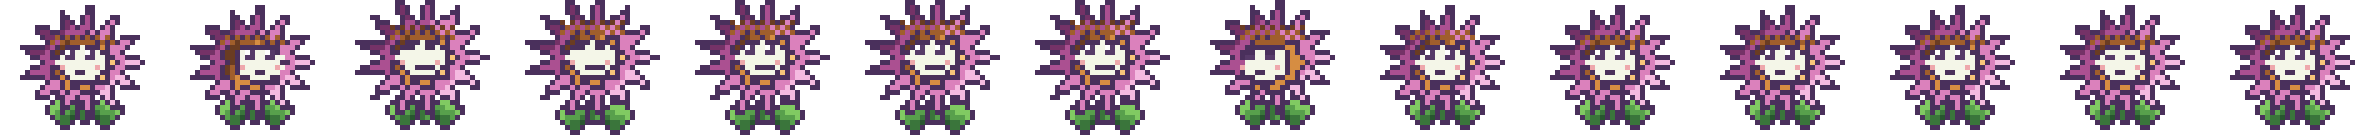
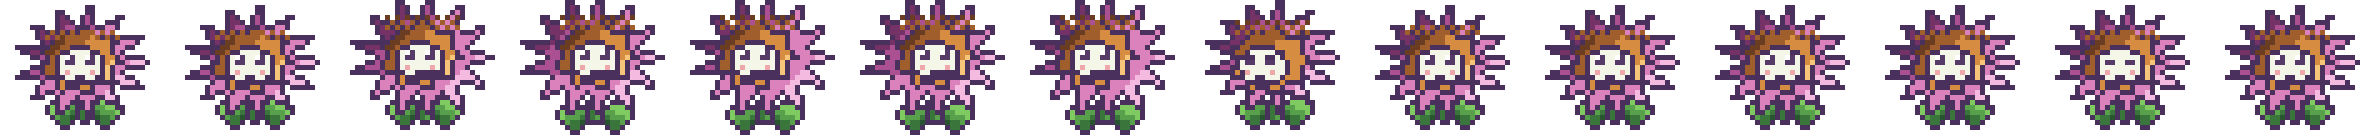
Give the coneflower its cone, its bud and its tingle
Three changes to #48, all of them things the automated gates could not see.

THE CONE NOW READS. It was a 15px head carrying a 10.6px face, which left about
1px of orange around the cream — a headband, and next to taraxacum-officinale.png
the sheet was a purple dandelion. The cone is the entire identity of the species.
Growing it to 18x15 made the rim even and introduced a worse failure: a uniform
band of one colour family around a cream oval is what a picture frame is. `face_dy`
is the fix — the face sits 1.1px below the cone's centre, so four rows of cone
stand above it and one below, and it reads as a dome rising over the face. Which
is the plant: a disc standing proud is what separates a coneflower from a daisy.
The mane widens 27 -> 29 so the rays keep their length against the bigger cone.

STAGE 2 BUDS. `BUD_MANE` is the same ring generator at a short radius, so the bud
grows into exactly the adult's ray count and spacing rather than being drawn twice.
It shows a closed green cone with the spines already flat on it and the first purple
breaking at the crown — E. purpurea rays emerge upright from the top of a developing
head and only reflex later, so that is a real phase and not a shrunken adult.

THE GESTURE IS THE TINGLE, and it comes off the card's own back rather than out of
my head: TASTE: Bitter, Pungent, TINGLING, against AROMATIC: Earthy, Herbal, MILD.
A quiet, unremarkable-smelling thing that turns out to be electric. The spines snap
[…]

Changed region(s): [[0.0, 0.0571, 0.995, 0.8]]

diff --git a/scripts/sprite_sources/echinacea_purpurea.py b/scripts/sprite_sources/echinacea_purpurea.py
@@ -19,11 +19,27 @@ layered over, never a substitute for it.
 The rays are also drawn SWEPT: on a mature E. purpurea the ray florets reflex backward and
 hang, which is why the cone stands so proud, and it is the thing most drawings get wrong.
 
-WHERE THE FACE GOES: in the cone, which is the part the character lives in.
+WHERE THE FACE GOES: in the cone, which is the part the character lives in - and LOW in it,
+which took three passes to get right. A cone the same size as the face leaves a 1px orange rim
+that reads as a headband, and the sheet next to the dandelion's was a purple dandelion. Growing
+the cone until the rim was even all round fixed that and introduced a worse thing: a uniform
+band around a cream oval reads as a PICTURE FRAME, because two colour families stacked
+concentrically is what a frame is. `face_dy` is the answer - the face sits 1.1px below the
+cone's centre, so there are four rows of cone above it and one below, and the organ reads as a
+dome RISING over the face rather than a ring around it. Which is also the plant: the thing that
+separates a coneflower from a daisy is a disc that stands proud.
 
-PERSONALITY: prickly. Its trademark gesture is THE BRISTLE - the spines stand up around the
-cone, hold for a beat, and flatten again, while the rays lift with the startle and settle. A
-hedgehog's entire vocabulary, in a flower.
+PERSONALITY: tingly. Its trademark gesture is THE TINGLE, and it comes off the card rather than
+out of my head - the back prints TASTE: Bitter, Pungent, TINGLING against AROMATIC: Earthy,
+Herbal, MILD. A quiet, unremarkable-smelling thing that turns out to be electric. The spines
+snap up on one frame and then the creature buzzes, shivering a pixel either way while the
+bristles hold. `Echinacea` is Greek `echinos`, HEDGEHOG, and the bristles are why; the jitter is
+what makes them a tingle rather than a startle.
+
+DELIBERATELY NOT THE HEALING TRAITS. The same back prints anti-inflammatory, immune aid and
+respiratory support, and none of them appears here in any form. A gesture may illustrate what a
+plant tastes and smells like; it may never illustrate a medicinal effect - the line self-heal
+already keeps by mending a notch in its OWN leaf.
 
 COLOUR: rays at ~320 deg, leaves at ~105 deg - far outside the 34 deg either side of its own
 flower that the set forbids - with the cone at ~30 deg between them. Midtones stay under the
@@ -59,11 +75,11 @@ PALETTE = {
 # rays and each is thinner, and that count is most of what separates the two silhouettes at
 # thumbnail size. `face_rx = 0` draws no face — this organ is behind the cone and must stay a
 # clean ring.
-MANE_W, MANE_H = 27, 23
-MANE_CX, MANE_CY = 13.0, 11.0
+MANE_W, MANE_H = 29, 23
+MANE_CX, MANE_CY = 14.0, 11.0
 
 
-def _mane(rx=10.5, ry=9.5, light=(-0.85, -0.65)):
+def _mane(rx=11.4, ry=9.5, light=(-0.85, -0.65)):
     return flower_head(
         MANE_W, MANE_H, MANE_CX, MANE_CY, rx, ry, 13, 0.22, 0, 0,
         light=light, trim_tail=False, chars="RrqQFo",
@@ -73,22 +89,29 @@ def _mane(rx=10.5, ry=9.5, light=(-0.85, -0.65)):
 MANE = _mane()
 # The startle: the whole ring lifts and widens a little. Reflexed rays cannot fall further,
 # so the only direction they have is up.
-MANE_LIFT = _mane(rx=11.0, ry=10.2)
+MANE_LIFT = _mane(rx=11.9, ry=10.2)
 
-MANE_AT = (2, 1)
+MANE_AT = (1, 1)
+
+# BUDDING: the same ring at a short radius. A coneflower does not open all at once — the
+# green bud cracks and the rays push out as stubs, still short and still half-held by the
+# bracts, before they lengthen and reflex. Generated from the same call rather than drawn
+# again, so the adult's ray count and spacing are exactly what the bud grows into.
+BUD_MANE = _mane(rx=6.4, ry=5.6)
+BUD_MANE_AT = (2, 7)
 
 # --- The cone ---------------------------------------------------------------
 #
 # Nine shallow lobes so the rim is bumpy rather than smooth — a cone is packed bracts, and a
 # clean ellipse here reads as a berry. The amplitude stays low because the SPINES do the
 # spiky work; a permanently jagged rim would leave the gesture nothing to add.
-CONE_W, CONE_H = 15, 14
+CONE_W, CONE_H = 18, 15
 
 
 def _cone(face_dx=0.0, light=(-0.85, -0.65)):
     return flower_head(
-        CONE_W, CONE_H, 7.0, 6.2, 6.6, 6.0, 9, 0.10, 5.3, 4.2,
-        face_dx=face_dx, light=light, trim_tail=False, chars="NmbBFo",
+        CONE_W, CONE_H, 8.5, 6.7, 7.8, 6.6, 9, 0.10, 5.3, 4.2,
+        face_dx=face_dx, face_dy=1.1, light=light, trim_tail=False, chars="NmbBFo",
     )
 
 
@@ -96,7 +119,7 @@ CONE = _cone()
 CONE_LEFT = _cone(face_dx=-1.3, light=(-0.35, -0.65))
 CONE_RIGHT = _cone(face_dx=1.3, light=(-1.25, -0.65))
 
-CONE_AT = (8, 6)
+CONE_AT = (6, 5)
 
 L_DX, _ = face_shift(CONE, CONE_LEFT)
 R_DX, _ = face_shift(CONE, CONE_RIGHT)
@@ -106,17 +129,17 @@ R_DX, _ = face_shift(CONE, CONE_RIGHT)
 # Their own part, because the gesture is them moving against the cone. Flat at rest: a
 # coneflower is prickly to touch and does not look it, which is the joke the bristle tells.
 SPINES_FLAT = [
-    " b b b b b b ",
-    "b b b b b b b",
+    " b b b b b b b ",
+    "b b b b b b b b",
 ]
 
 SPINES_UP = [
-    "B B B B B B B",
-    " b b b b b b ",
-    "b b b b b b b",
+    "B B B B B B B B",
+    " b b b b b b b ",
+    "b b b b b b b b",
 ]
 
-SPINES_AT = (9, 7)
+SPINES_AT = (8, 6)
 
 # --- Leaves and stem --------------------------------------------------------
 #
@@ -155,9 +178,11 @@ STEM = [
 #   sprout    a rough toothed leaf wearing the face. No cone, no mane, no spines: a
 #             first-year coneflower is a rosette and nothing else, and the card's own
 #             identification says the rough leaves are the giveaway.
-#   growing   the cone in bud, green and closed, spines already there but flat. The prickle
-#             arrives before the colour does, which is true of the plant and is what makes
-#             the stage worth drawing rather than a smaller copy of the adult.
+#   growing   the head in BUD: a closed green cone, spines already there but flat, and the
+#             first purple breaking at the crown. E. purpurea rays emerge upright from the
+#             top of a developing head and only reflex later, so short stubs at the crown is
+#             a real phase rather than a shrunken adult - and the prickle arriving before the
+#             colour is what makes the stage worth drawing at all.
 #   flowering mane, cone, and bristles that move.
 
 BUD_PALETTE = {
@@ -199,7 +224,7 @@ SEED_STEM = [
 ]
 
 BUD_W, BUD_H = 15, 12
-BUD_AT = (9, 7)
+BUD_AT = (9, 11)
 
 
 def _bud(face_dx=0.0, light=(-0.85, -0.65)):
@@ -228,7 +253,7 @@ G_EYES = [None, None, "half", "half", None, None, None, "blink", None, None]
 
 SPRITE = {
     "herbId": "echinacea-purpurea",
-    "personality": "prickly",
+    "personality": "tingly",
     "stages": {
         "sprout": {
             "frames": 8,
@@ -265,9 +290,9 @@ SPRITE = {
             "frames": 10,
             "fps": stage_fps(7, "growing"),
             "palette": BUD_PALETTE,
-            "hide": ["mane"],
             "swap": {
                 "cone": BUD,
+                "mane": BUD_MANE,
                 "spines": SPINES_FLAT,
                 "eyes": YOUNG_EYES["rows"],
                 "mouth": YOUNG_MOUTH["rows"],
@@ -279,14 +304,16 @@ SPRITE = {
             },
             "origins": {
                 "cone": BUD_AT,
-                "spines": (11, 8),
-                "leafL": (8, 19),
-                "leafR": (17, 19),
-                "stem": (14, 19),
+                "mane": BUD_MANE_AT,
+                "spines": (11, 12),
+                "leafL": (8, 20),
+                "leafR": (17, 20),
+                "stem": (14, 20),
                 **seat_young(BUD_AT, BUD, mouth_dy=4),
             },
             "motion": {
                 "cone": {"dy": G_BOB, "art": G_HEAD},
+                "mane": {"dy": G_BOB},
                 "spines": {"dy": G_BOB},
                 "eyes": {"dy": G_BOB, "dx": G_DX, "art": G_EYES},
                 "cheeks": {"dy": G_BOB, "dx": G_DX},
@@ -326,26 +353,43 @@ SPRITE = {
         *feature_parts(CONE_AT, CONE, eyes="round", mouth="small", eye_dy=1, mouth_dy=5),
     ],
     #
-    #  0    1     2       3       4      5     6      7       8     9   10   11   12    13
-    # rest tense BRISTLE BRISTLE hold  hold  hold  settle settle rest rest rest blink rest
+    #  0    1     2      3      4      5      6      7      8      9   10   11   12    13
+    # rest still ZAP   buzz   buzz   buzz   buzz  settle settle rest rest rest blink rest
     #
-    # The bristle is frames 2-8 and it is this sprite's trademark: the spines stand over two
-    # frames, hold for three, and flatten over two more. Frame 0 is the rest pose reduced
-    # motion freezes on — spines down, rays swept, cone proud — which is a complete
-    # coneflower and claims nothing untrue.
+    # THE TINGLE, frames 2-8, and it comes off the card rather than out of my head. The back
+    # prints TASTE: Bitter, Pungent, TINGLING — the alkamide buzz echinacea is known for, the
+    # one that fizzes on the tongue and will not sit still. It also prints AROMATIC: Earthy,
+    # Herbal, MILD, so the plant gives you no warning at all. That contrast is the whole
+    # character: a quiet, unremarkable-smelling thing that turns out to be electric.
+    #
+    # So the spines do not merely rise. They snap up on ONE frame — the zap — and then the
+    # creature buzzes, shivering a pixel left and right on alternating frames while the
+    # bristles hold. A smooth rise was a hedgehog; the jitter is the tingle, and the two
+    # together are the plant the card describes.
+    #
+    # DELIBERATELY NOT THE HEALING TRAITS. The same back prints anti-inflammatory, immune aid
+    # and respiratory support, and none of them appears here in any form. A gesture may
+    # illustrate what a plant tastes and smells like; it may never illustrate a medicinal
+    # effect, which is the rule self-heal already keeps by mending a notch in its OWN leaf.
+    #
+    # Frame 0 is the rest pose reduced motion freezes on — spines down, rays swept, cone
+    # proud — a complete coneflower that claims nothing untrue.
     "motion": {
         # UP AND A ROW WIDER. Spines that only rose would read as the cone growing; the third
         # row appearing is what makes it a bristle.
         "spines": {
             "art": [None, None, "up", "up", "up", "up", "up", "up", None, None,
                     None, None, None, None],
-            "dy": [0, 0, -2, -3, -3, -3, -3, -2, -1, 0, 0, 0, 0, 0],
+            # -3 on the very first frame of the zap: the snap is the point.
+            "dy": [0, 0, -3, -3, -3, -3, -3, -2, -1, 0, 0, 0, 0, 0],
+            "dx": [0, 0, 0, 1, -1, 1, -1, 0, 0, 0, 0, 0, 0, 0],
         },
         # The cone rises barely. A dome travelling as far as its own spines would read as the
         # head coming off the stem.
         "cone": {
-            "art": [None, "right", None, None, None, None, None, "left", None, None,
+            "art": [None, None, None, None, None, None, None, "left", None, None,
                     None, None, None, None],
+            "dx": [0, 0, 0, 1, -1, 1, -1, 0, 0, 0, 0, 0, 0, 0],
             "dy": [0, 0, -1, -1, -1, -1, -1, 0, 0, 0, 0, 0, 0, 0],
         },
         # The mane lifts and widens with the startle, then settles.
@@ -355,19 +399,20 @@ SPRITE = {
             "dy": [0, 0, -1, -1, -1, -1, -1, -1, 0, 0, 0, 0, 0, 0],
         },
         "eyes": {
-            "art": [None, None, "shut", "shut", None, None, None, "half", None, None,
+            # Eyes WIDE on the zap, not shut. Something just happened to this plant.
+            "art": [None, None, None, None, None, None, None, "half", None, None,
                     None, None, "blink", None],
-            "dx": [0, R_DX, 0, 0, 0, 0, 0, L_DX, 0, 0, 0, 0, 0, 0],
+            "dx": [0, 0, 0, 1, -1, 1, -1, L_DX, 0, 0, 0, 0, 0, 0],
             "dy": [0, 0, -1, -1, -1, -1, -1, 0, 0, 0, 0, 0, 0, 0],
         },
         "cheeks": {
-            "dx": [0, R_DX, 0, 0, 0, 0, 0, L_DX, 0, 0, 0, 0, 0, 0],
+            "dx": [0, 0, 0, 1, -1, 1, -1, L_DX, 0, 0, 0, 0, 0, 0],
             "dy": [0, 0, -1, -1, -1, -1, -1, 0, 0, 0, 0, 0, 0, 0],
         },
         "mouth": {
             "art": [None, None, "wide", "wide", "wide", "wide", "wide", None, None,
                     None, None, None, None, None],
-            "dx": [0, R_DX, 0, 0, 0, 0, 0, L_DX, 0, 0, 0, 0, 0, 0],
+            "dx": [0, 0, 0, 1, -1, 1, -1, L_DX, 0, 0, 0, 0, 0, 0],
             "dy": [0, 0, -1, -1, -1, -1, -1, 0, 0, 0, 0, 0, 0, 0],
         },
         # The leaves flinch down half a beat after the spines go up, which is what sells the
